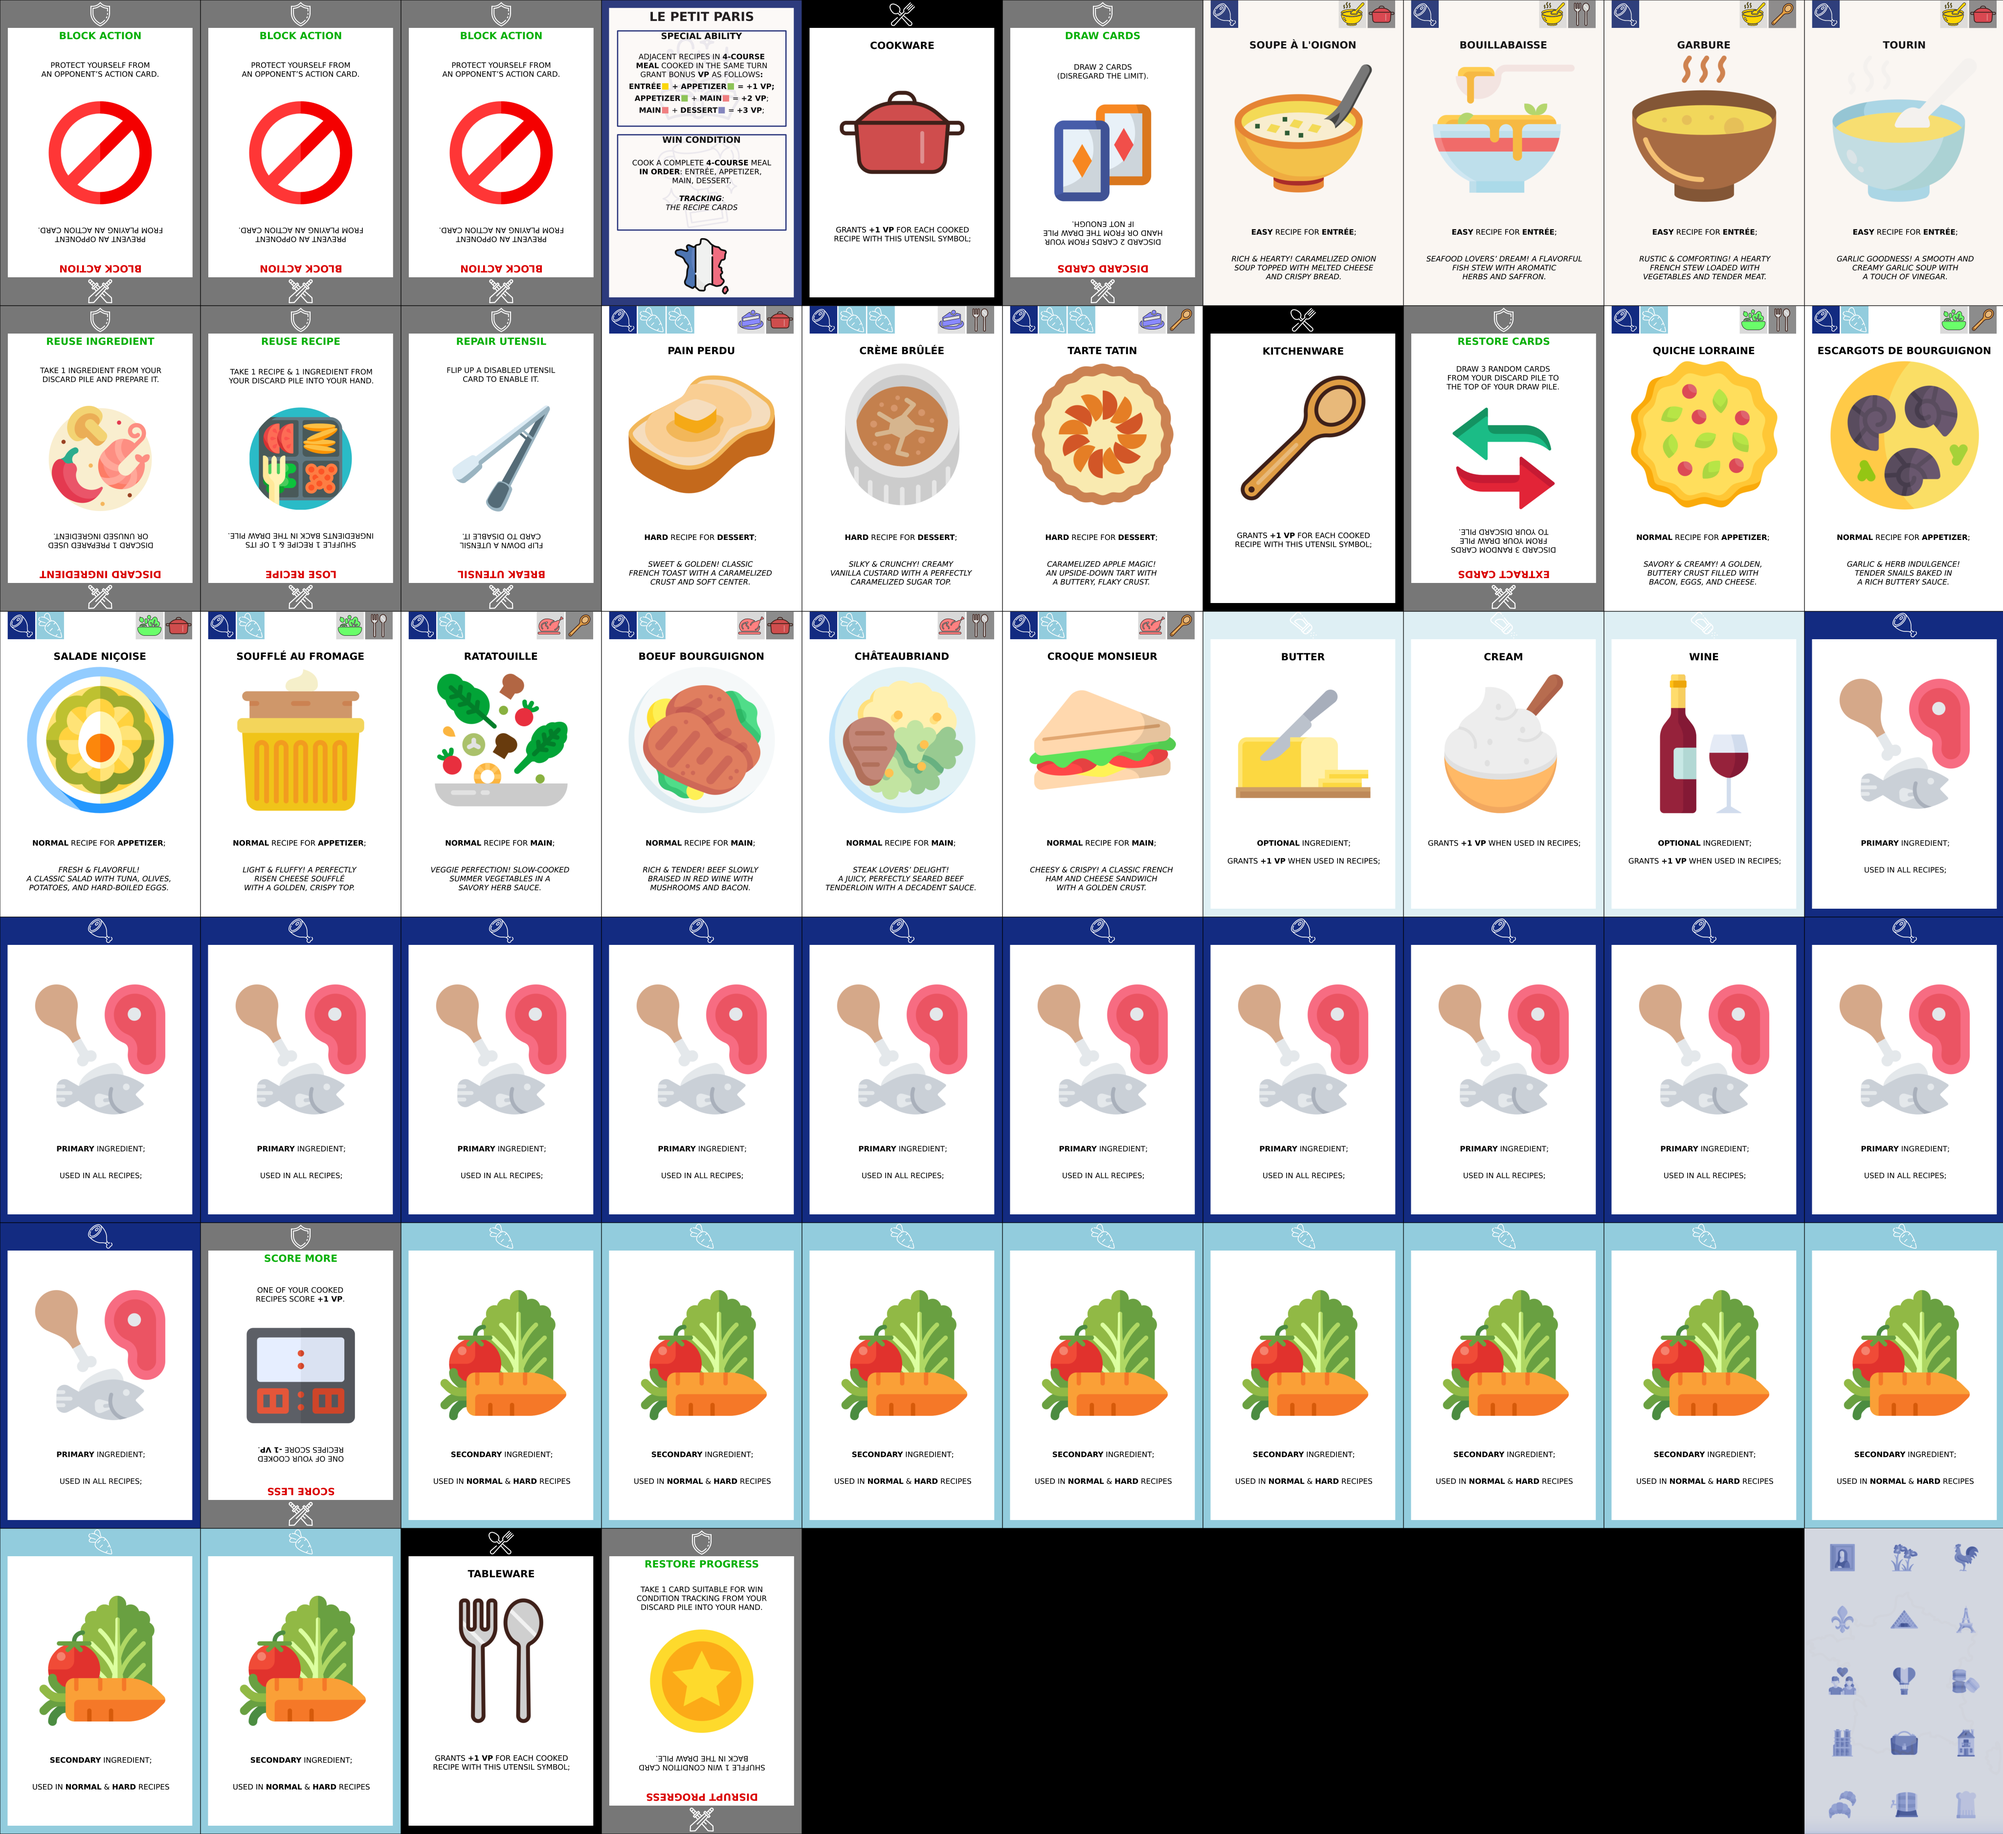
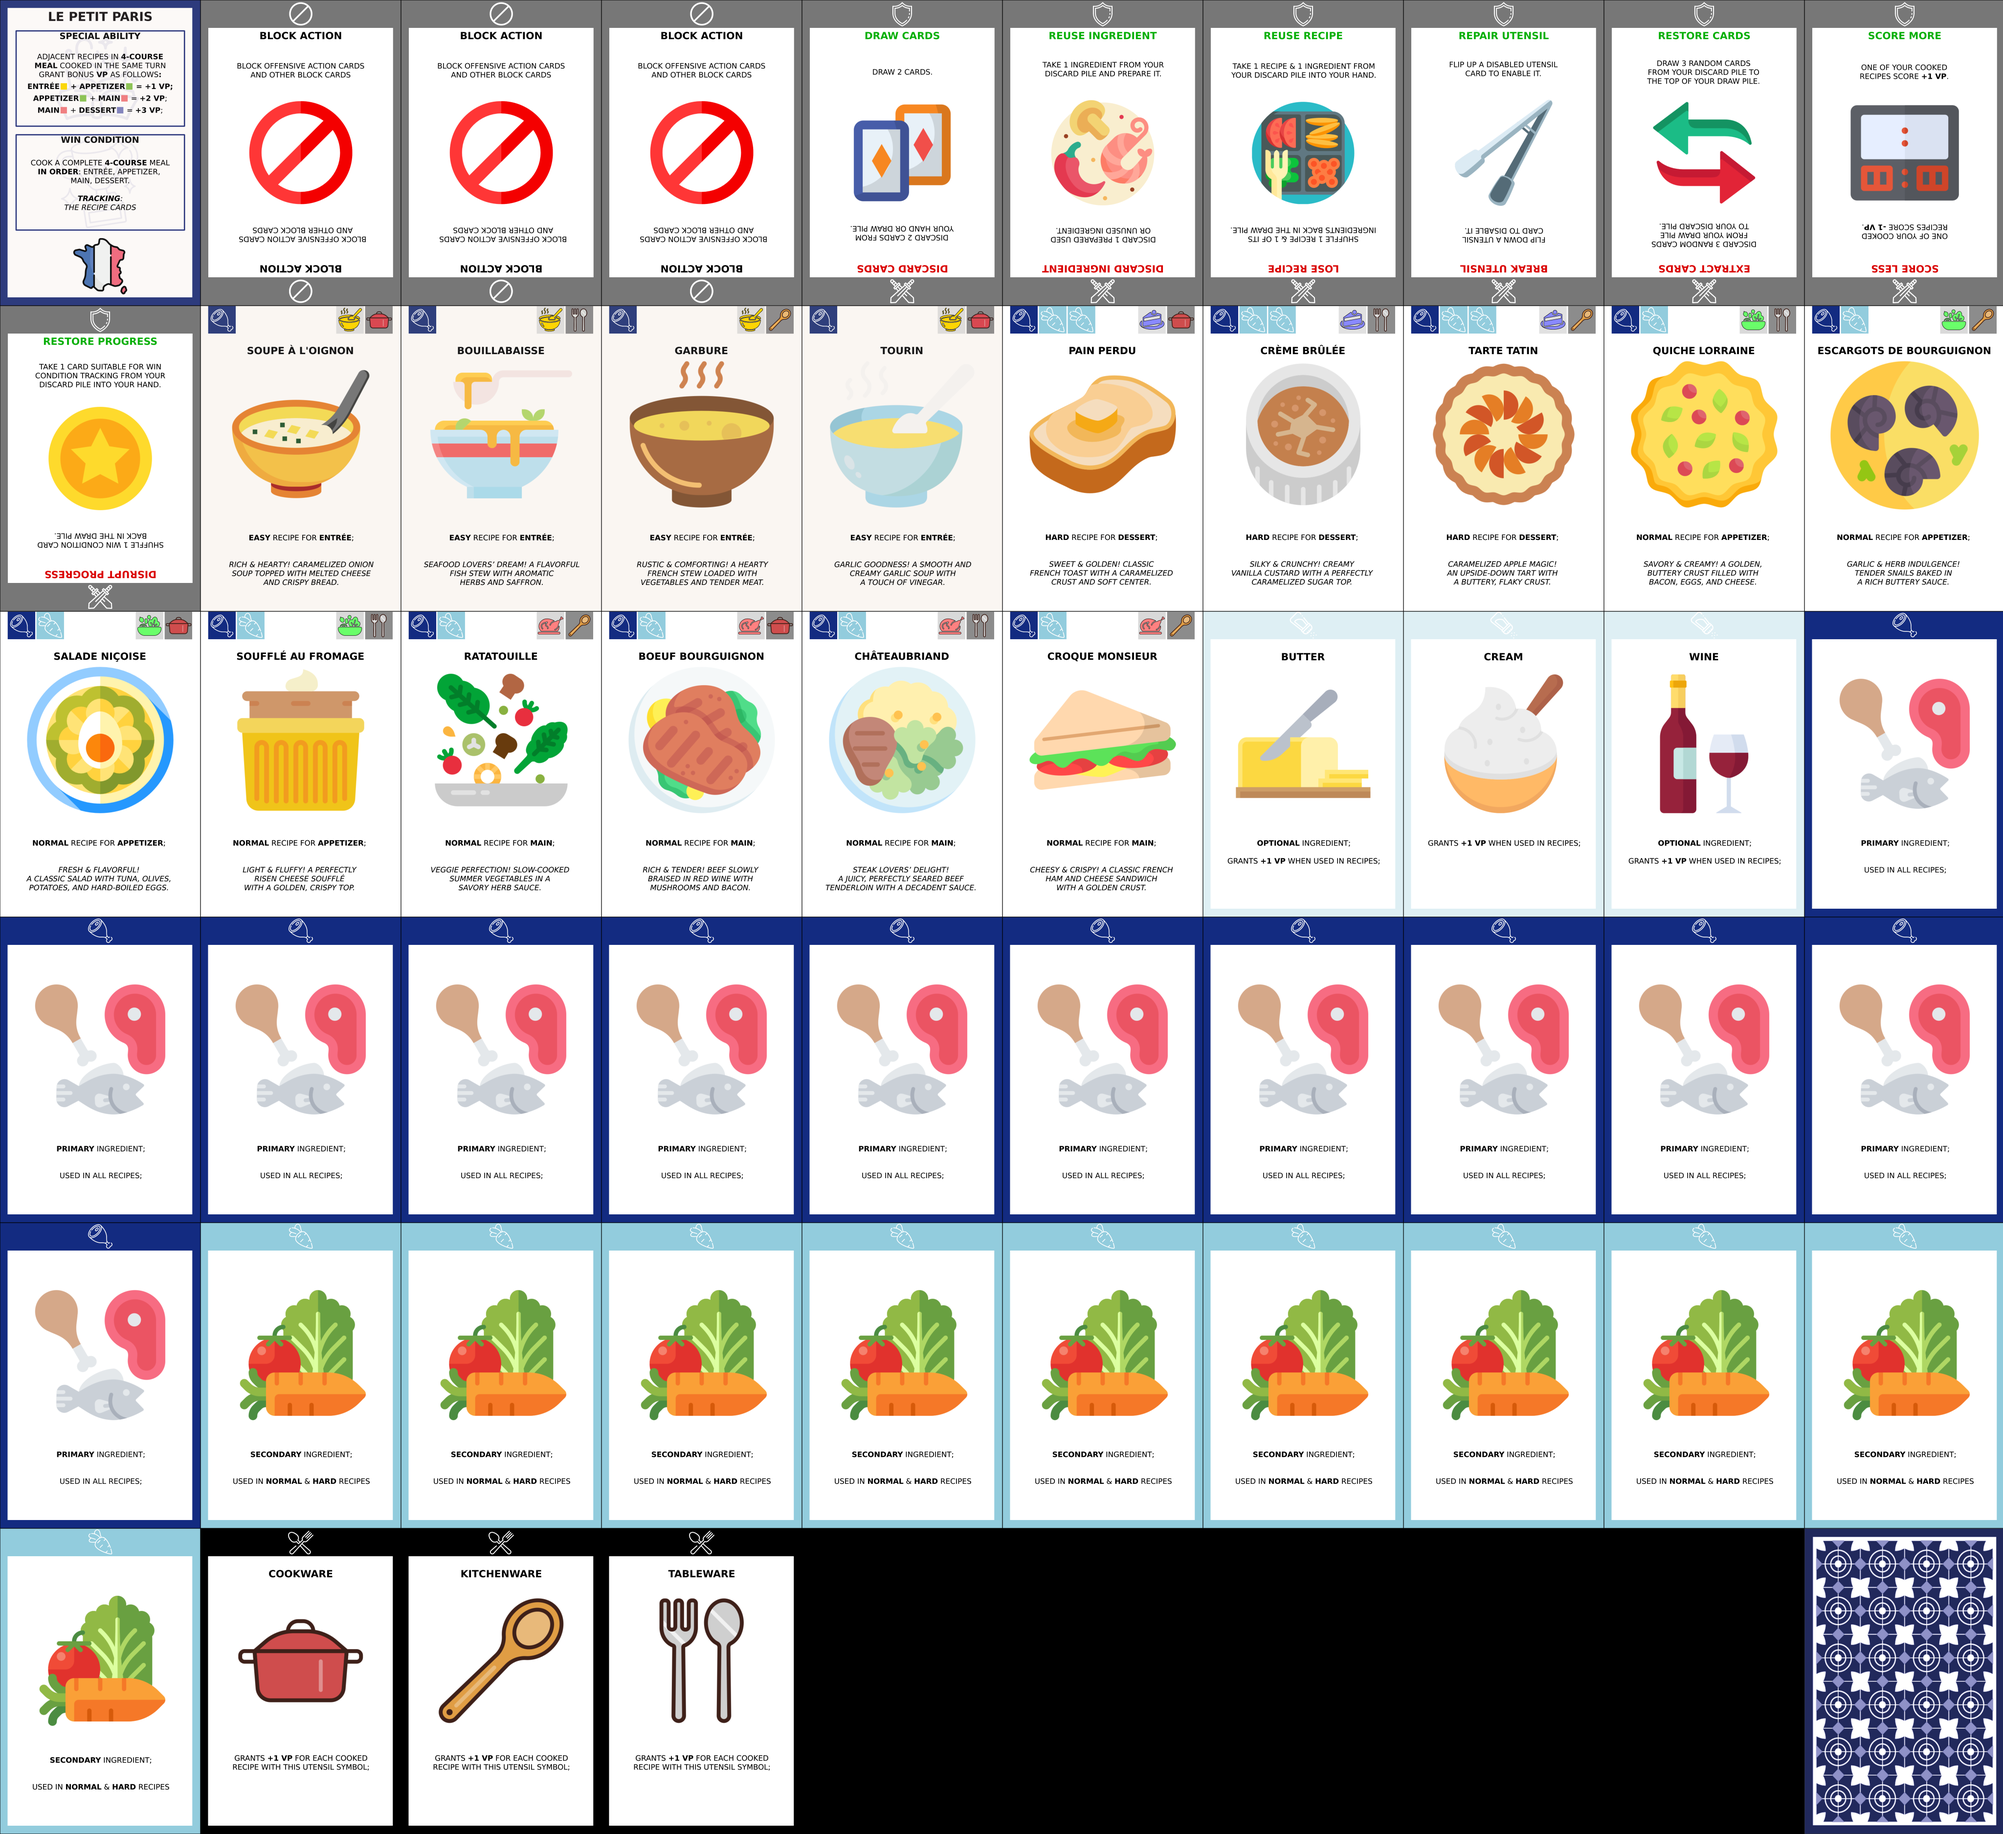
adjust action card rules

diff --git a/food-court/Rules.md b/food-court/Rules.md
@@ -12,6 +12,7 @@
   - [Ingredient Cards](#ingredient-cards)
   - [Recipe Cards](#recipe-cards)
   - [Action Cards](#action-cards)
+  - [Block Cards](#block-cards)
   - [Utensil Cards](#utensil-cards)
   - [Ability Card](#ability-card)
 - [Main Mechanics](#main-mechanics)
@@ -74,13 +75,14 @@ During their turn, players always start by:
 Then they can:
 
 - Prepare ingredients
+- Play defensive action cards
 - Cook recipes
 - Put utensils in play
-- Put action cards face down (in front of self or opponents)
+- Place offensive action cards face down in front of opponents.
 
 Finally, if they decide to score VP they should:
 
-- Flip up and resolve the action cards in front of self.
+- Flip up and resolve the action cards in front of themselves.
 - Score VP 
 
 
@@ -166,14 +168,13 @@ place the "Fettuccine" ingredient card in your win condition tracking area.
 
 Can be played with either offensive or defensive effect. Offensive effects are used to disrupt
 opponents. Defensive effects benefit the players themselves.  
-Action cards are put face down in front of the player who they affect (you for defensive cards or
-opponents for offensive cards) and are resolved (flipped back up) before scoring.
+
+Offensive Action Cards are played face down in front of an opponent and are flipped up and resolved
+right before they score.
+Defensive Action Cards are played immediately from the hand like any other cards.
 
 The action cards are as follows (Offensive [O] and Defensive [D]):
 
-- **Blocking** (x3)
-  - [O] Block Action - Prevent an opponent from playing an action card. 
-  - [D] Block Action - Protect yourself from opponent's action card.
 - **Ingredients**
   - [O] Discard Ingredient - Choose 1 prepared (used or unused) ingredient that the opponent should 
   discard.
@@ -193,23 +194,28 @@ The action cards are as follows (Offensive [O] and Defensive [D]):
 - **Drawing Cards**
   - [O] Discard Cards - Ask an opponent to discard 2 cards of their choice from their hand. If
   they don't have 2 cards in their hand, they instead discard 2 cards from the draw pile.
-  - [D] Draw Cards - Draw 2 cards from the draw deck for your hand, disregarding the 8 cards hand 
-  limit.
+  - [D] Draw Cards - Draw 2 cards from the draw deck for your hand.
 - **Recipe Scores**
-  - [O] Score Less - Make an opponent's cooked recipe to score 1 VP less.
-  - [D] Score More - Make a recipe you cooked to score 1 VP more.
+  - [O] Score Less - Make an opponent's cooked recipe score 1 VP less.
+  - [D] Score More - Make a recipe you cooked score 1 VP more.
 - **Redistribute Cards**
   - [O] Extract Cards - Ask an opponent to draw 3 random cards directly from their draw pile and
   discard them.
   - [D] Restore Cards - Draw 3 random cards from your discard pile to the top of your draw pile. 
 
-- Action cards can only be blocked (so discarded) by the **Block An Action** card. The card can be 
-used cumulatively (so your opponent can block your block, you theirs, etc.).
-- Any cards you get via action cards (i.e. via the "Draw Cards" card) can be played before scoring.
+- Offensive action cards can only be blocked (so discarded) by a **Block Action** card. Defensive
+action cards cannot be blocked.
+- Any cards you get to add to your hand via action card effect are not subject to the 8 cards limit.
 - Players always choose the targets of their action cards when possible! For example, you choose the
 utensil card the opponent should disable, the recipe they should lose, etc. But you cannot choose
 which cards they should discard from their hand or draw/discard cards from their piles instead of
 them.
+
+### Block Cards
+
+Special type of action cards. Can be used to block an offensive action cards that were flipped up
+prior to scoring and other block cards (so your opponent can block your block, you theirs, etc.).
+Played immediately from the hand like any other cards.
 
 ### Utensil Cards
 
@@ -248,14 +254,13 @@ the "Break/Repair Utensil" action cards.
 
 ### Play Action Cards
 
-You can put action cards face down in front of you or your opponents. They stay face down until
-you decide to score. Each action card can be played with the green text up as defensive action to
-benefit you or with the red text up as offensive action to disrupt your opponents. So they should 
-be put in 2 different stacks.
-Before scoring you flip all action cards up and resolve their effects. "Block An Action" cards can 
-be used to negate effects of other action cards. The owner of such card chooses which card it 
-blocks. So your opponents decide which of your defensive action cards is blocked, and you decide
-which of their offensive action cards is blocked.
+Defensive action cards are played immediately from the hand typically at the start of a turn as 
+most of them supply the player with extra cards.
+Offensive action cards are placed face down in front of a player. They stay face down until that
+player decides to score. Before scoring all flipped down action cards are flipped back up and their
+effects are resolved.
+"Block Action" cards can be used to negate effects of offensive action cards. The owner of such
+card chooses which card it blocks.
 
 ## Roles
 

diff --git a/food-court/Decks.md b/food-court/Decks.md
@@ -3,20 +3,17 @@
 ## Table of Contents
 
 - [Table of Contents](#table-of-contents)
-- [Base](#base-decks)
-  - [Italy](#italy)
-  - [France](#france)
-  - [China](#china)
-  - [India](#india)
-- [Extra](#extra-decks)
-  - [USA](#usa)
-  - [Türkiye](#türkiye)
-  - [Japan](#japan)
-  - [Mexico](#mexico)
+- [🇮🇹 Piazza Romana](#-piazza-romana)
+- [🇫🇷 Le Petit Paris](#-le-petit-paris)
+- [🇨🇳 Jin Long](#-jin-long)
+- [🇮🇳 Raj Mahal](#-raj-mahal)
+- [🇺🇸 Liberty Grill](#-liberty-grill)
+- [🇹🇷 Sultan Saray](#-sultan-saray)
+- [🇯🇵 Sakura House](#-sakura-house)
+- [🇲🇽 El Nopalito](#-el-nopalito)
 
-## Base Decks
 
-### Italy
+## 🇮🇹 Piazza Romana
 
 - **Special Ability** - **Normal** and **hard** recipes cooked with **exact** pasta ingredients
 grant bonus VP as follows: **normal** recipes grant **+1 VP**; **hard** recipes grant **+2 VP**;
@@ -37,7 +34,7 @@ grant bonus VP as follows: **normal** recipes grant **+1 VP**; **hard** recipes 
     - Penne (2)
     - Gnocchi (2)
   - Secondary (9)
-  - Optioanal (3):
+  - Optional (3):
     - Basil
     - Balsamic Vinegar
     - Parmigiano
@@ -63,7 +60,7 @@ grant bonus VP as follows: **normal** recipes grant **+1 VP**; **hard** recipes 
 - Country Card (1)
 </details>
 
-### France
+## 🇫🇷 Le Petit Paris
 
 - **Special Ability** - Adjacent recipes from a 4-course meal cooked in the same turn grant bonus
 VP as follows: **entrée** + **appetizer** = **+1 VP**; **appetizer** + **main** = **+2 VP**; 
@@ -105,7 +102,7 @@ VP as follows: **entrée** + **appetizer** = **+1 VP**; **appetizer** + **main**
 - Country Card (1)
 </details>
 
-### China
+## 🇨🇳 Jin Long
 
 - **Special Ability** - If you cook multiple recipes in 1 turn, gain bonus VP equal to the number
 of recipes minus 1 (i.e. 2 recipes = **+1 VP**, 3 recipes = **+2 VP**, etc.).
@@ -148,7 +145,7 @@ of recipes minus 1 (i.e. 2 recipes = **+1 VP**, 3 recipes = **+2 VP**, etc.).
 - Country Card (1)
 </details>
 
-### India
+## 🇮🇳 Raj Mahal
 
 - **Special Ability** - Recipes can include 1 more **secondary** ingredient as **extra**, adding 
 **+1 VP** to **easy** and **normal** recipes and **+2 VP** to **hard** recipes.
@@ -195,9 +192,7 @@ of recipes minus 1 (i.e. 2 recipes = **+1 VP**, 3 recipes = **+2 VP**, etc.).
 - Country Card (1)
 </details>
 
-## Extra Decks
-
-### USA
+## 🇺🇸 Liberty Grill
 
 - **Special Ability** - You can cook recipes with twice the amount of ingredients to score bonus
 VP equal to that amount. You don't have to match the recipe requirements for the extra ingredients.
@@ -238,7 +233,7 @@ VP equal to that amount. You don't have to match the recipe requirements for the
 - Country Card (1)
 </details>
 
-### Türkiye
+## 🇹🇷 Sultan Saray
 
 - **Special Ability** - Before scoring, you can replace opponent's **normal** or **hard** recipe
 with a **kebab** by discarding 1 or 2 prepared and unused ingredients of any type. You don't
@@ -281,7 +276,7 @@ benefit from special ability effects of the replaced recipe.
 - Country Card (1)
 </details>
 
-### Japan
+## 🇯🇵 Sakura House
 
 - **Special Ability** - Cooked recipes score VP based on their **secondary** ingredient as follows:
 **+2 VP** with **umami** ingredient; **+1 VP** with **wasabi** ingredient; **-1 VP** with
@@ -325,7 +320,7 @@ benefit from special ability effects of the replaced recipe.
 - Country Card (1)
 </details>
 
-### Mexico
+## 🇲🇽 El Nopalito
 
 - **Special Ability** - You can have up to 2 **hot** **secondary** ingredients in any recipe for a
 bonus of up to +2 VP respectively. To add more **secondary** ingredients than the recipe requires,

diff --git a/food-court/quick-reference.md b/food-court/quick-reference.md
@@ -20,12 +20,13 @@ Each round consists of all players taking turns.
 2. **On your turn:**
    - Discard up to **3 cards** and redraw to **8 cards**.
    - Perform any of the following:
+     - **Play Defensive Action Cards**
      - **Prepare Ingredients**
      - **Cook Recipes**
      - **Play Utensils**
-     - **Place Action Cards** face down
+     - **Place Offensive Action Cards** face down
    - And if you decide to score:
-     - Reveal and resolve **all action cards** in front of you.
+     - Reveal and resolve or block **offensive action cards** in front of you.
      - Score VP.
 
 ## Scoring
@@ -57,10 +58,16 @@ Only fully cooked recipes contribute to win conditions and special abilities.
 
 ### Action Cards
 
-- Played **face down** and revealed before scoring.
-- **Offensive** (Red) - Disrupt opponents.
-- **Defensive** (Green) - Benefit yourself.
-- Can be **blocked** using "Block An Action" cards.
+- Offensive (Red):
+  - Placed **face down** and resolved before scoring.
+  - Disrupt opponents.
+  - Can be **blocked** using "Block Action" cards.
+- **Defensive** (Green):
+  - Played immediately
+  - Benefit yourself
+- Block Action cards:
+  - Played immediately
+  - Block offensive action cards and other block cards.
 
 ### Utensil Cards
 
@@ -88,8 +95,9 @@ Place utensil cards in their dedicated stack.
 
 ### Play Action Cards
 
-- Place **face down** in front of yourself (defensive) or opponents (offensive).
-- Reveal and resolve them before scoring.
+- Play **defensive** action cards immediately.
+- Place **offensive** action cards face down in front of you and resolve before scoring.
+- **Block Action** cards can be played to block offensive action cards adn other block cards.
 
 ## Roles (Optional, for 3+ players)
 

diff --git a/food-court/CHANGELOG.md b/food-court/CHANGELOG.md
@@ -1,5 +1,18 @@
 # Changelog
 
+## [0.6.4]
+
+BUG FIXES:
+
+* Action Cards rules are updated to unsure more fluidity.
+* Various documentation QoL changes
+
+## [0.6.3]
+
+BUG FIXES:
+
+* Adjust the complete Win Condition total bonus to 40 VP to feel more like a snitch ;)
+
 ## [0.6.2]
 
 BUG FIXES:
